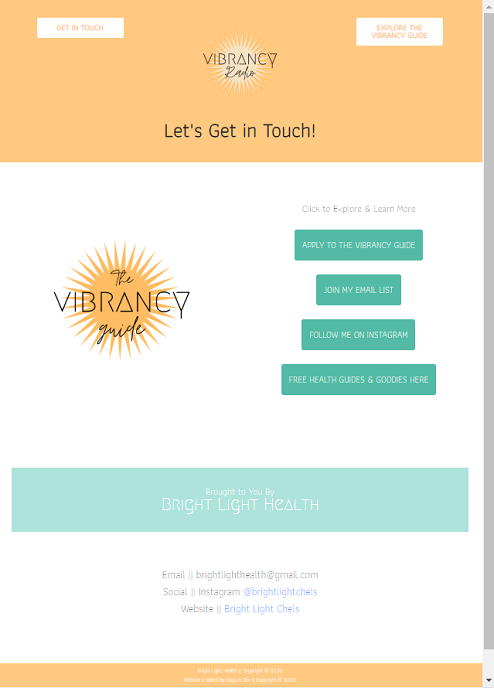
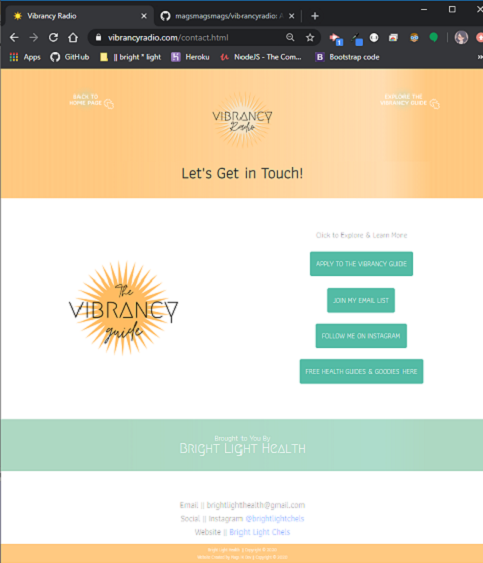
new readme ss

diff --git a/README.md b/README.md
@@ -7,7 +7,7 @@
 
 ## Screenshots of the Application
 
-![screenshot](/ss_2.png)
+![screenshot](/ss_1.png)
 
 ![screenshot](/ss_3.png)
 
